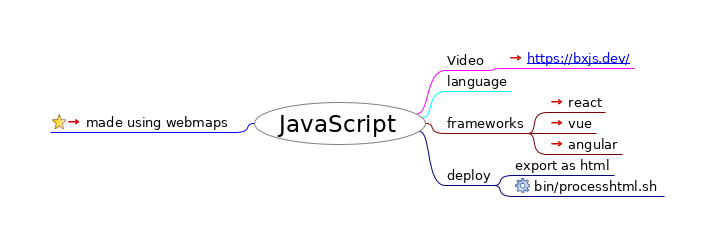
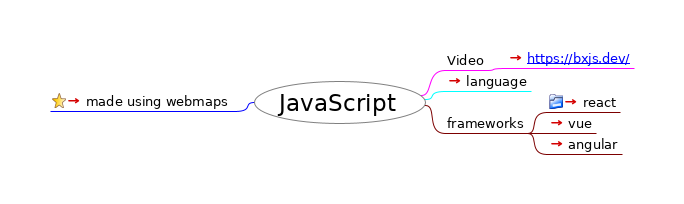
update mind maps

Changed region(s): [[0.0614, 0.2059, 0.9518, 0.8235]]

diff --git a/index.html b/index.html
@@ -23,21 +23,18 @@
                    };
                };
           
-          --></script></head><body><h1>JavaScript</h1><div style="width:96%;  padding:2%;  margin-bottom:10px;  border: 0px;  text-align:center;  vertical-align:center;"><img src="index.html_files/image.png" style="margin-bottom:10px; &#9;border: 0px; &#9;text-align:center; &#9;vertical-align:center;" alt="Imagemap" usemap="#fm_imagemap" /></div><map name="fm_imagemap" id="fm_imagemap"><area shape="rect" href="#FMID_110073400FM" alt="JavaScript" title="JavaScript" coords="254,102,426,145" />
-<area shape="rect" href="https://github.com/solidpayorg/webmaps/" alt="made using webmaps" title="made using webmaps" coords="50,114,235,132" />
+          --></script></head><body><h1>JavaScript</h1><div style="width:96%;  padding:2%;  margin-bottom:10px;  border: 0px;  text-align:center;  vertical-align:center;"><img src="index.html_files/image.png" style="margin-bottom:10px; &#9;border: 0px; &#9;text-align:center; &#9;vertical-align:center;" alt="Imagemap" usemap="#fm_imagemap" /></div><map name="fm_imagemap" id="fm_imagemap"><area shape="rect" href="#FMID_110073400FM" alt="JavaScript" title="JavaScript" coords="254,81,426,124" />
+<area shape="rect" href="https://github.com/solidpayorg/webmaps/" alt="made using webmaps" title="made using webmaps" coords="50,93,235,111" />
 <area shape="rect" href="#FMID_849215328FM" alt="Video" title="Video" coords="445,52,487,70" />
 <area shape="rect" href="https://bxjs.dev/" alt="https://bxjs.dev/" title="https://bxjs.dev/" coords="506,50,634,68" />
-<area shape="rect" href="#FMID_1566689685FM" alt="language" title="language" coords="445,73,511,91" />
+<area shape="rect" href="language.html" alt="language" title="language" coords="445,73,531,91" />
 <area shape="rect" href="#FMID_153818301FM" alt="frameworks" title="frameworks" coords="445,115,528,133" />
-<area shape="rect" href="react/index.html" alt="react" title="react" coords="547,94,605,112" />
+<area shape="rect" href="react/index.html" alt="react" title="react" coords="547,94,620,112" />
 <area shape="rect" href="https://vuejs.org/" alt="vue" title="vue" coords="547,115,596,133" />
 <area shape="rect" href="https://angular.io/" alt="angular" title="angular" coords="547,136,622,154" />
-<area shape="rect" href="#FMID_990538417FM" alt="deploy" title="deploy" coords="445,167,494,185" />
-<area shape="rect" href="#FMID_902563853FM" alt="export as html" title="export as html" coords="513,157,614,175" />
-<area shape="rect" href="execute:_bin/processhtml.sh" alt="bin/processhtml.sh" title="bin/processhtml.sh" coords="513,178,664,196" />
 </map>
 
 <div class="node"><img src="index.html_files/hide.png" class="hideshow" alt="hide" onClick="toggle(&quot;N65543&quot;)" id="imgN65543" /><a id="FMID_110073400FM" /><div class="nodecontent" style="color:#000000;font-size:150%;">JavaScript</div><div class="content" id="N65543"><div class="node"><img src="index.html_files/leaf.png" class="hideshow" alt="leaf" /><img src="index.html_files/icons/bookmark.svg" alt="bookmark" /> <a id="FMID_634574866FM" /><div class="nodecontent" style="color:#000000;font-size:83%;"><a href="https://github.com/solidpayorg/webmaps/">made using webmaps</a> <a href="https://github.com/solidpayorg/webmaps/"><img src="index.html_files/ilink.png" alt="User Link" style="border-width:0" /></a></div></div><div class="node"><img src="index.html_files/hide.png" class="hideshow" alt="hide" onClick="toggle(&quot;N66482&quot;)" id="imgN66482" /><a id="FMID_849215328FM" /><div class="nodecontent" style="color:#000000;font-size:83%;">Video</div><div class="content" id="N66482"><div class="node"><img src="index.html_files/leaf.png" class="hideshow" alt="leaf" /><a id="FMID_1384859362FM" /><div class="nodecontent" style="color:#000000;font-size:83%;"><a href="https://bxjs.dev/">
     <a http-equiv="content-type" content="text/html; charset=utf-8" href="https://bxjs.dev/">https://bxjs.dev/</a>
-  </a> <a href="https://bxjs.dev/"><img src="index.html_files/ilink.png" alt="User Link" style="border-width:0" /></a></div></div></div></div><div class="node"><img src="index.html_files/leaf.png" class="hideshow" alt="leaf" /><a id="FMID_1566689685FM" /><div class="nodecontent" style="color:#000000;font-size:83%;">language</div></div><div class="node"><img src="index.html_files/hide.png" class="hideshow" alt="hide" onClick="toggle(&quot;N66611&quot;)" id="imgN66611" /><a id="FMID_153818301FM" /><div class="nodecontent" style="color:#000000;font-size:83%;">frameworks</div><div class="content" id="N66611"><div class="node"><img src="index.html_files/leaf.png" class="hideshow" alt="leaf" /><a id="FMID_921980201FM" /><div class="nodecontent" style="color:#000000;font-size:83%;"><a href="react/index.html">react</a> <a href="react/index.html"><img src="index.html_files/ilink.png" alt="User Link" style="border-width:0" /></a></div></div><div class="node"><img src="index.html_files/leaf.png" class="hideshow" alt="leaf" /><a id="FMID_850712897FM" /><div class="nodecontent" style="color:#000000;font-size:83%;"><a href="https://vuejs.org/">vue</a> <a href="https://vuejs.org/"><img src="index.html_files/ilink.png" alt="User Link" style="border-width:0" /></a></div></div><div class="node"><img src="index.html_files/leaf.png" class="hideshow" alt="leaf" /><a id="FMID_101804111FM" /><div class="nodecontent" style="color:#000000;font-size:83%;"><a href="https://angular.io/">angular</a> <a href="https://angular.io/"><img src="index.html_files/ilink.png" alt="User Link" style="border-width:0" /></a></div></div></div></div><div class="node"><img src="index.html_files/hide.png" class="hideshow" alt="hide" onClick="toggle(&quot;N66759&quot;)" id="imgN66759" /><a id="FMID_990538417FM" /><div class="nodecontent" style="color:#000000;font-size:83%;">deploy</div><div class="content" id="N66759"><div class="node"><img src="index.html_files/leaf.png" class="hideshow" alt="leaf" /><a id="FMID_902563853FM" /><div class="nodecontent" style="color:#000000;font-size:83%;">export as html</div></div><div class="node"><img src="index.html_files/leaf.png" class="hideshow" alt="leaf" /><a id="FMID_463733076FM" /><div class="nodecontent" style="color:#000000;font-size:83%;"><a href="execute:_bin/processhtml.sh">bin/processhtml.sh</a> <a href="execute:_bin/processhtml.sh"><img src="index.html_files/ilink.png" alt="User Link" style="border-width:0" /></a></div></div></div></div></div></div>
+  </a> <a href="https://bxjs.dev/"><img src="index.html_files/ilink.png" alt="User Link" style="border-width:0" /></a></div></div></div></div><div class="node"><img src="index.html_files/leaf.png" class="hideshow" alt="leaf" /><a id="FMID_1566689685FM" /><div class="nodecontent" style="color:#000000;font-size:83%;"><a href="language.html">language</a> <a href="language.html"><img src="index.html_files/ilink.png" alt="User Link" style="border-width:0" /></a></div></div><div class="node"><img src="index.html_files/hide.png" class="hideshow" alt="hide" onClick="toggle(&quot;N66612&quot;)" id="imgN66612" /><a id="FMID_153818301FM" /><div class="nodecontent" style="color:#000000;font-size:83%;">frameworks</div><div class="content" id="N66612"><div class="node"><img src="index.html_files/leaf.png" class="hideshow" alt="leaf" /><img src="index.html_files/icons/folder.svg" alt="folder" /> <a id="FMID_921980201FM" /><div class="nodecontent" style="color:#000000;font-size:83%;"><a href="react/index.html">react</a> <a href="react/index.html"><img src="index.html_files/ilink.png" alt="User Link" style="border-width:0" /></a></div></div><div class="node"><img src="index.html_files/leaf.png" class="hideshow" alt="leaf" /><a id="FMID_850712897FM" /><div class="nodecontent" style="color:#000000;font-size:83%;"><a href="https://vuejs.org/">vue</a> <a href="https://vuejs.org/"><img src="index.html_files/ilink.png" alt="User Link" style="border-width:0" /></a></div></div><div class="node"><img src="index.html_files/leaf.png" class="hideshow" alt="leaf" /><a id="FMID_101804111FM" /><div class="nodecontent" style="color:#000000;font-size:83%;"><a href="https://angular.io/">angular</a> <a href="https://angular.io/"><img src="index.html_files/ilink.png" alt="User Link" style="border-width:0" /></a></div></div></div></div></div></div>
 </body></html>

diff --git a/index.mm b/index.mm
@@ -88,14 +88,11 @@
 </node>
 <node TEXT="frameworks" POSITION="right" ID="ID_153818301" CREATED="1570477824954" MODIFIED="1570477828743">
 <edge COLOR="#7c0000"/>
-<node TEXT="react" ID="ID_921980201" CREATED="1570477831137" MODIFIED="1570527616559" LINK="react/index.mm"/>
+<node TEXT="react" ID="ID_921980201" CREATED="1570477831137" MODIFIED="1571160355679" LINK="react/index.mm">
+<icon BUILTIN="folder"/>
+</node>
 <node TEXT="vue" ID="ID_850712897" CREATED="1570477834617" MODIFIED="1570477889990" LINK="https://vuejs.org/"/>
 <node TEXT="angular" ID="ID_101804111" CREATED="1570477835956" MODIFIED="1570477905907" LINK="https://angular.io/"/>
-</node>
-<node TEXT="deploy" POSITION="right" ID="ID_990538417" CREATED="1570562156934" MODIFIED="1570562159471">
-<edge COLOR="#00007c"/>
-<node TEXT="export as html" ID="ID_902563853" CREATED="1570562160720" MODIFIED="1570562166060"/>
-<node TEXT="bin/processhtml.sh" ID="ID_463733076" CREATED="1570562167077" MODIFIED="1570562187527" LINK="execute:_bin/processhtml.sh"/>
 </node>
 </node>
 </map>
